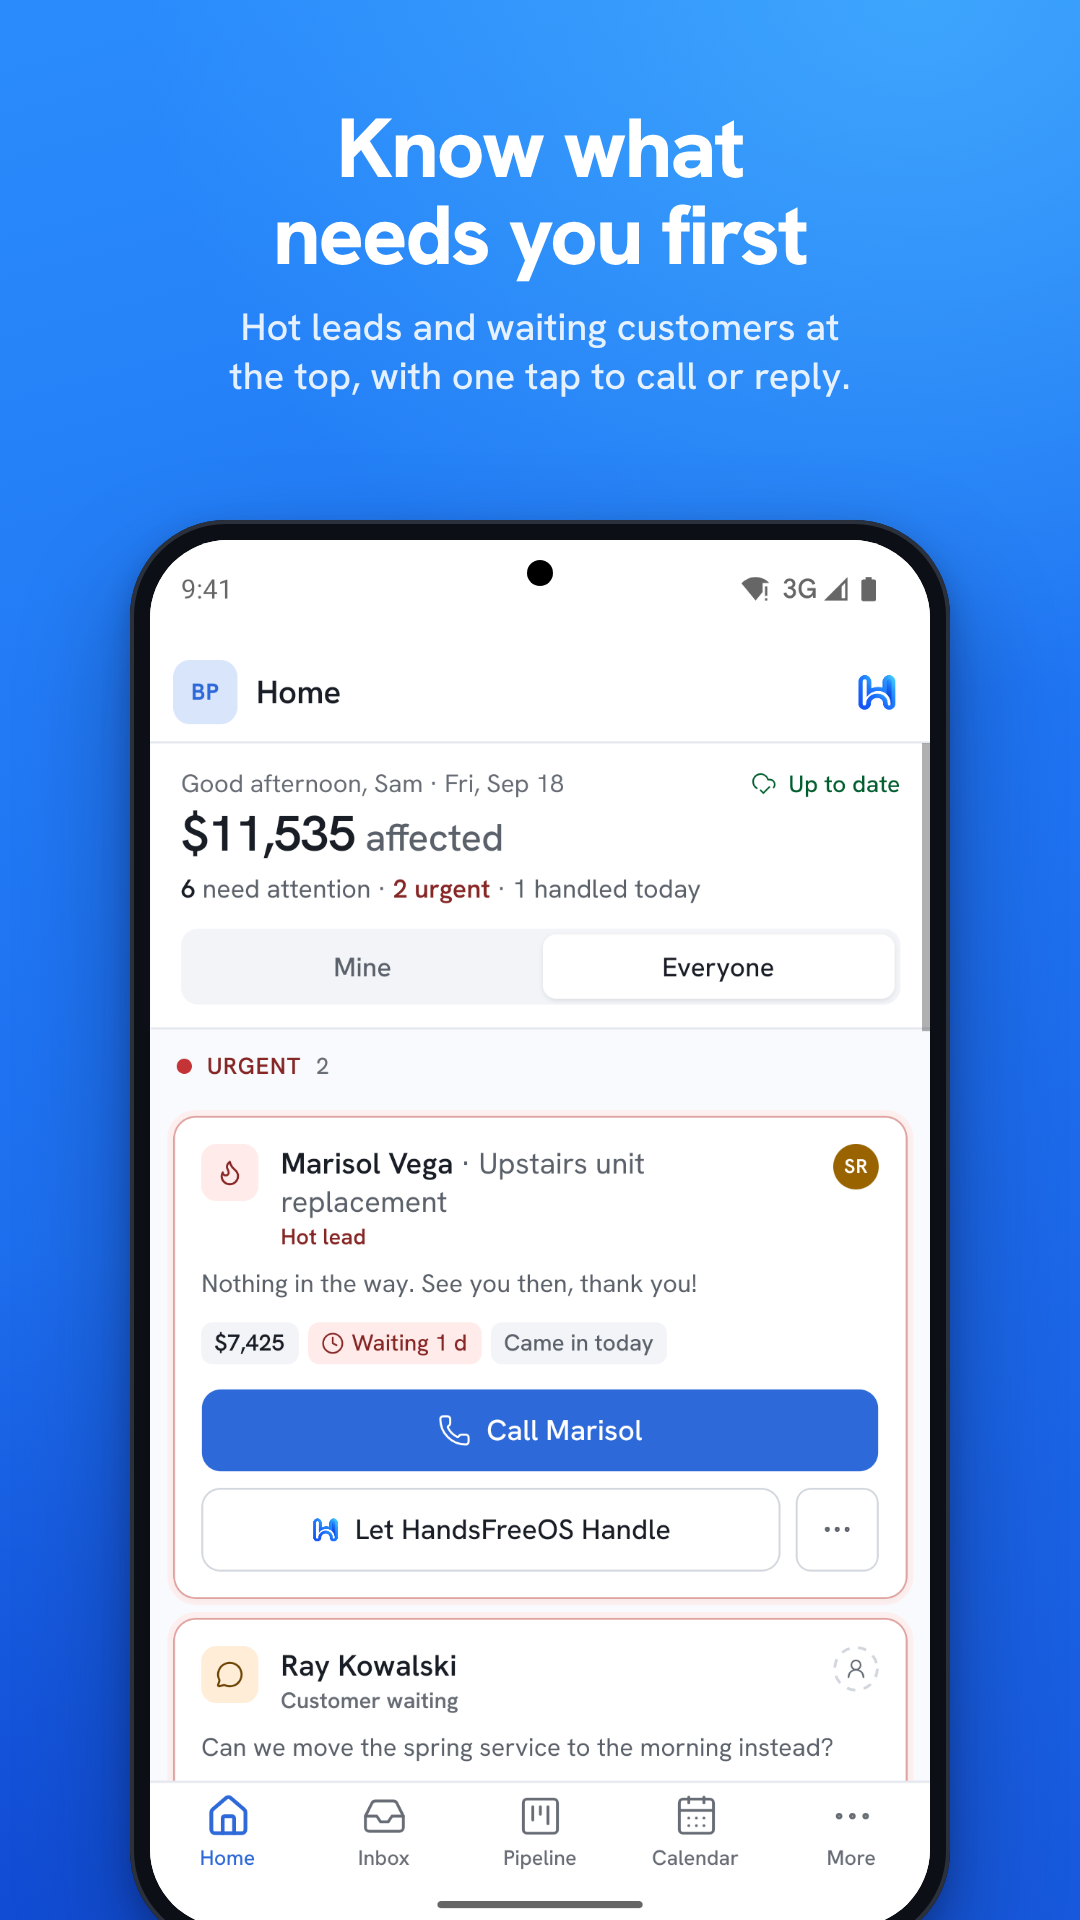
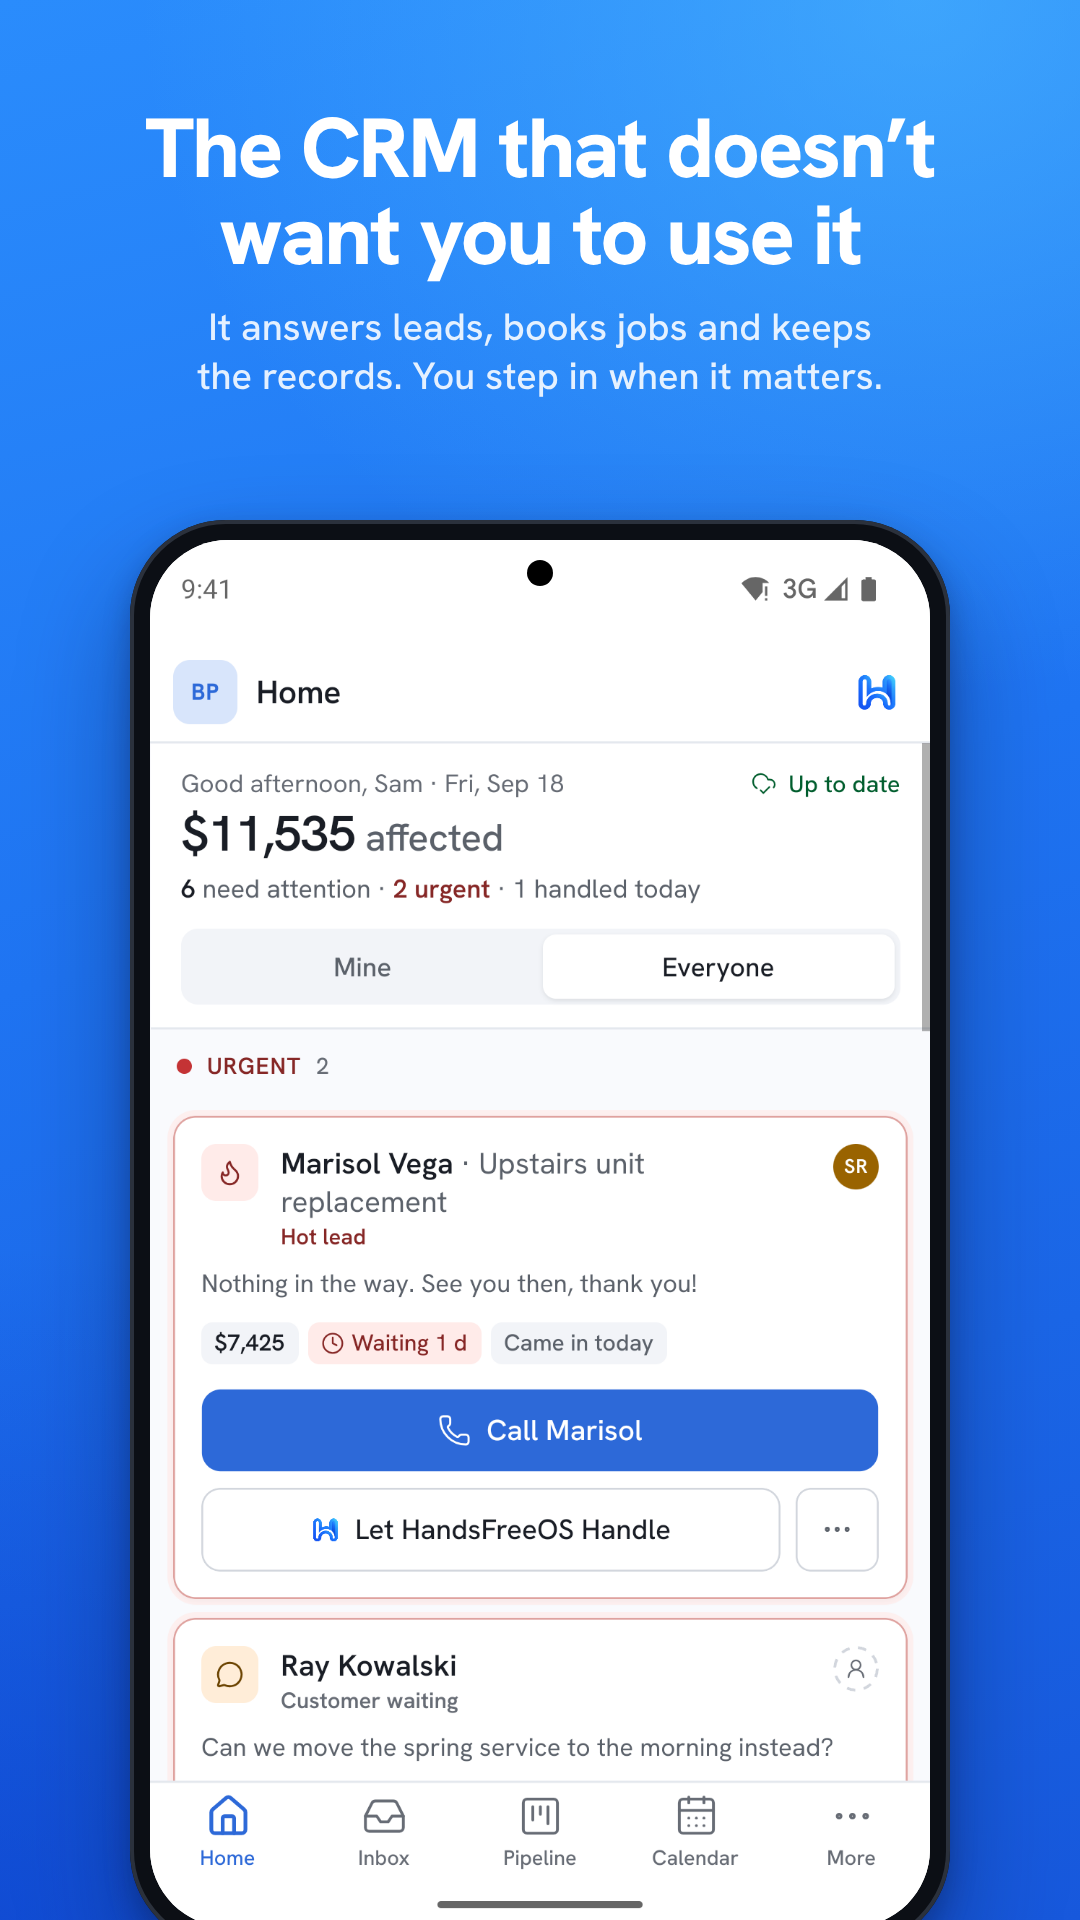
Lead the store listings with the site's headline: "The CRM that doesn't want you to use it"
The listing files were written apart from the website and never took its headline, so the store said "Run your
day from your truck" where the site says the line HandsFreeOS is built around. Now the first screenshot, the App
Store header, Play's feature graphic, the promotional text, both descriptions and Play's short description open
with it, each with its answer straight after, since it is a puzzle on purpose. The 30-character subtitle takes the
pricing page's short form, "The CRM that does the work". Working from the truck and with no signal stay, second.

Headlines now keep their own line breaks and shrink to fit their box rather than wrap.

Claude-Session: https://claude.ai/code/session_01L1c4Mky4W6dh1z9jzMS6HE

Changed region(s): [[0.1222, 0.0625, 0.8861, 0.2188]]

diff --git a/apps/mobile/store/claude-in-chrome.md b/apps/mobile/store/claude-in-chrome.md
@@ -188,11 +188,13 @@ App name:
 HandsFreeOS
 
 Short description (80 characters at most):
-Texts, calls, jobs and invoices for your business. And it works with no signal.
+The CRM that doesn’t want you to use it. And it works with no signal.
 
 Full description. Type it exactly, keeping each paragraph and each bullet on its own line and a blank line between sections:
 
-HandsFreeOS keeps a home-services business running while you are on the job.
+The CRM that doesn’t want you to use it.
+
+Other CRMs make you remember, look things up, type it in and follow up. HandsFreeOS answers new leads in seconds, books the job, keeps the record current, and brings you in when something actually needs you. The less you use it, the better it’s working.
 
 EVERYTHING IN ONE PLACE
 • Home shows what needs you today, in order, and handles the small things itself.
@@ -298,7 +300,7 @@ Go to https://appstoreconnect.apple.com/apps/6813606312.
 
 1. General → App Information:
    - Name: HandsFreeOS
-   - Subtitle: Run your day from your truck
+   - Subtitle: The CRM that does the work
    - Primary language: English (U.S.)
    - Category: Business. Secondary category: Productivity.
    - Content rights: No, it doesn't contain, show or access third-party content.
@@ -364,11 +366,13 @@ Go to https://appstoreconnect.apple.com/apps/6813606312 and open the iOS app's v
 1. Screenshots, iPhone 6.9" display: stop and tell me to upload them.
 
 2. Promotional text:
-Your texts, calls, jobs, calendar and money in one app, working the same in a basement with no signal as it does at the desk.
+The CRM that doesn’t want you to use it. It answers new leads in seconds, books the job and keeps the record current. Works from your truck, even with no signal.
 
 3. Description. Type it exactly, keeping each paragraph and each bullet on its own line and a blank line between sections:
 
-HandsFreeOS keeps a home-services business running while you are on the job.
+The CRM that doesn’t want you to use it.
+
+Other CRMs make you remember, look things up, type it in and follow up. HandsFreeOS answers new leads in seconds, books the job, keeps the record current, and brings you in when something actually needs you. The less you use it, the better it’s working.
 
 Everything in one place
 • Home shows what needs you today, in order, and handles the small things itself.

diff --git a/apps/mobile/store/listing-app-store.md b/apps/mobile/store/listing-app-store.md
@@ -18,6 +18,13 @@ Copy into App Store Connect. Character limits are Apple's, and each heading says
 | In-app purchases    | None                                                                               |
 | Account required    | Yes — see [`reviewer-demo.md`](reviewer-demo.md)                                   |
 
+## The line everything leads with
+
+The website's headline, **“The CRM that doesn’t want you to use it.”** (`apps/site/src/app/page.tsx`), leads here too:
+the promotional text, the description, the first screenshot, the header and Play's feature graphic all open with it,
+and each puts the answer to its little puzzle straight after it. It is 40 characters, too long for the 30-character
+subtitle, so the subtitle carries its short form from the pricing page, “The CRM that does the work”.
+
 ## Name (30 characters)
 
 ```
@@ -27,13 +34,13 @@ HandsFreeOS
 ## Subtitle (30 characters)
 
 ```
-Run your day from your truck
+The CRM that does the work
 ```
 
 ## Promotional text (170 characters — editable without review)
 
 ```
-Your texts, calls, jobs, calendar and money in one app, working the same in a basement with no signal as it does at the desk.
+The CRM that doesn’t want you to use it. It answers new leads in seconds, books the job and keeps the record current. Works from your truck, even with no signal.
 ```
 
 ## Keywords (100 characters, comma separated, no spaces)
@@ -45,7 +52,9 @@ crm,home services,hvac,plumbing,roofing,contractor,invoice,estimate,scheduling,l
 ## Description (4000 characters)
 
 ```
-HandsFreeOS keeps a home-services business running while you are on the job.
+The CRM that doesn’t want you to use it.
+
+Other CRMs make you remember, look things up, type it in and follow up. HandsFreeOS answers new leads in seconds, books the job, keeps the record current, and brings you in when something actually needs you. The less you use it, the better it’s working.
 
 Everything in one place
 • Home shows what needs you today, in order, and handles the small things itself.

diff --git a/apps/mobile/store/listing-play.md b/apps/mobile/store/listing-play.md
@@ -38,13 +38,15 @@ HandsFreeOS
 ## Short description (80 characters)
 
 ```
-Texts, calls, jobs and invoices for your business. And it works with no signal.
+The CRM that doesn’t want you to use it. And it works with no signal.
 ```
 
 ## Full description (4000 characters)
 
 ```
-HandsFreeOS keeps a home-services business running while you are on the job.
+The CRM that doesn’t want you to use it.
+
+Other CRMs make you remember, look things up, type it in and follow up. HandsFreeOS answers new leads in seconds, books the job, keeps the record current, and brings you in when something actually needs you. The less you use it, the better it’s working.
 
 EVERYTHING IN ONE PLACE
 • Home shows what needs you today, in order, and handles the small things itself.
